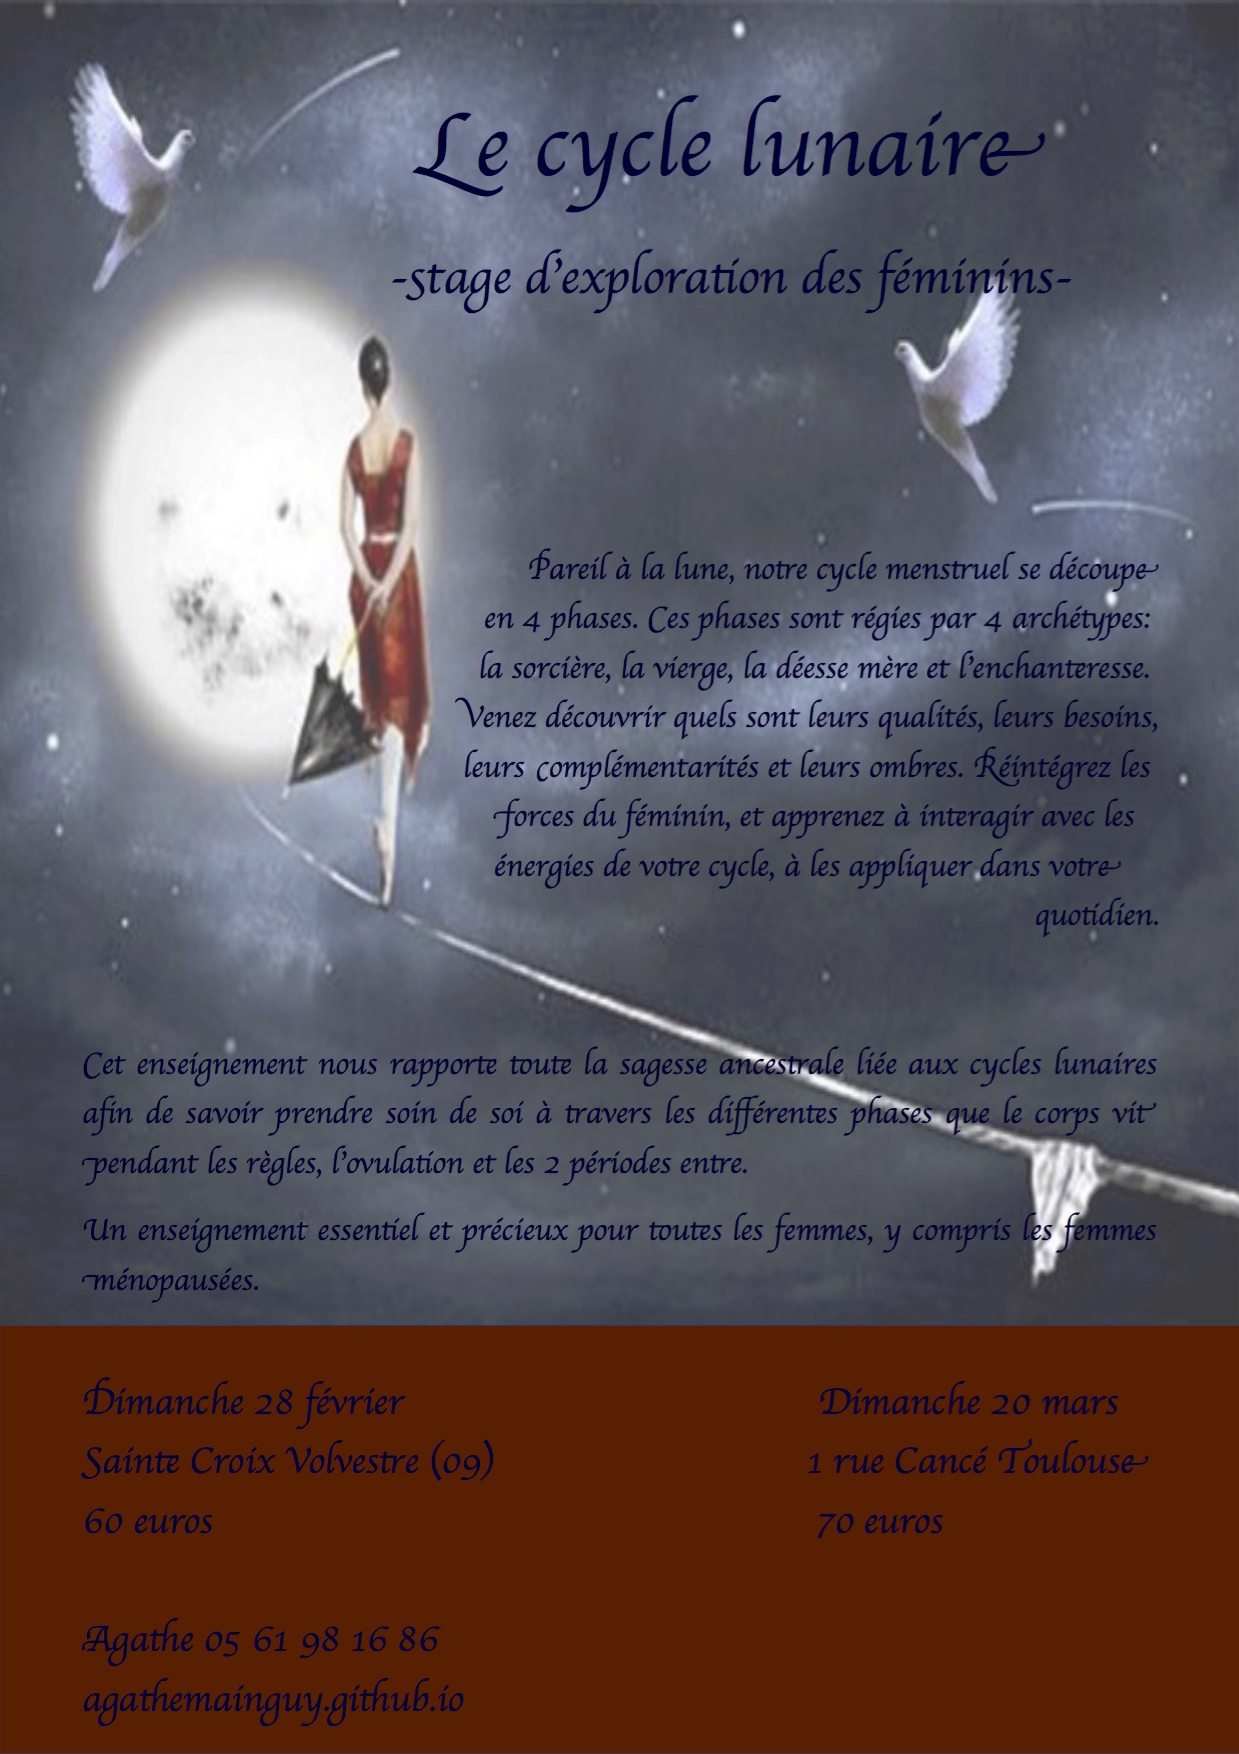
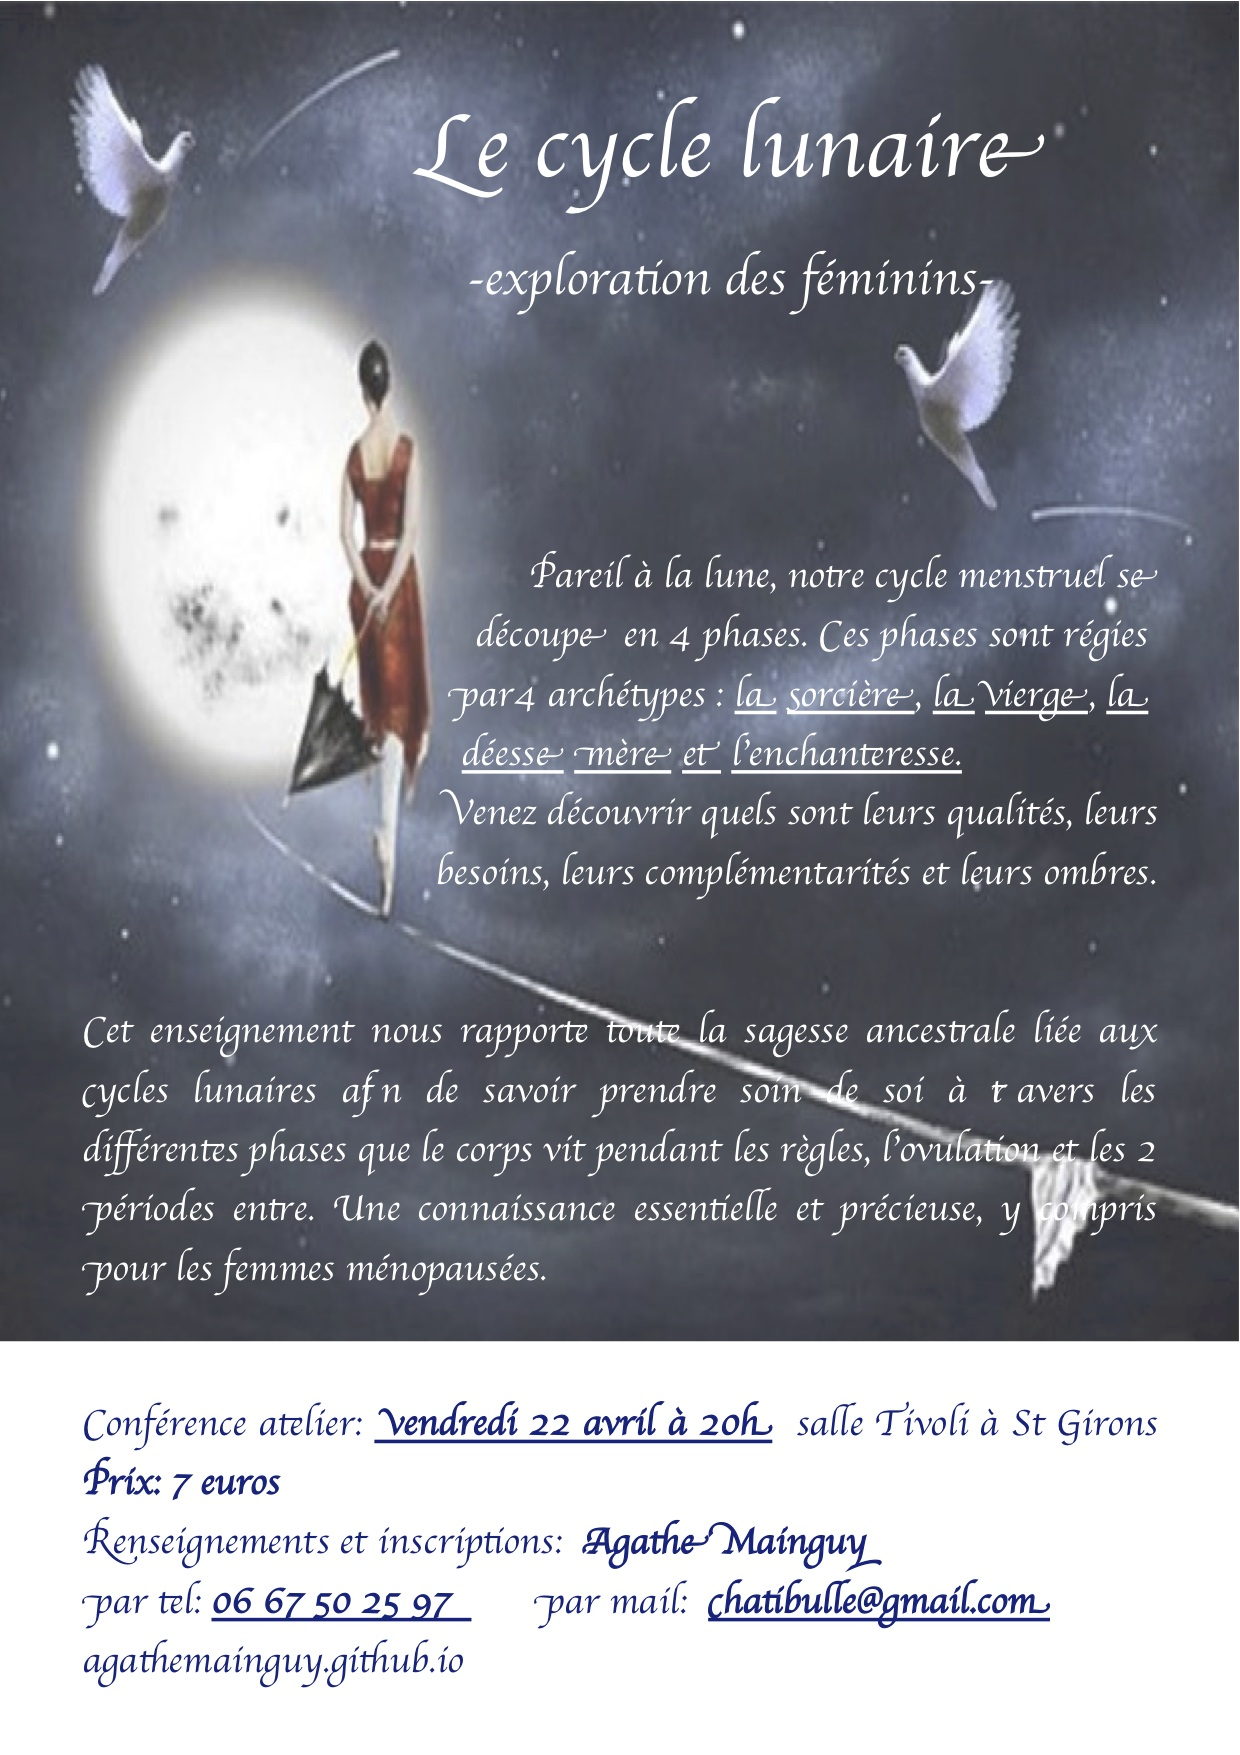
update
update images atelier senti et cycle lunaire
update horaire atelier senti

diff --git a/senti.html b/senti.html
@@ -54,7 +54,11 @@ intuitivement comment se nourrir sur tous les plans (physique, émotionnel, ment
 
 <p>Une bonne motivation et une présence à tous les ateliers sont nécessaires pour la progression de chaque personne et du groupe. <strong>Les ateliers sont ouverts tous,  vivement conseillés à tous les thérapeutes</strong>, afin de développer leur énergie, apprendre à ne plus en perdre, notamment dans la relation aux patients.</p>
 
-<p><strong>Lieu : à Lahitère, le mardi de 9h30 à 11h<br/>
+<center>
+    <img align="middle" src="events/ateliersenti2.jpg" width="440"/>
+  </center>
+
+<p><strong>Lieu : à Lahitère, le lundi de 10h à 11h30<br/>
 Tarif: 12 euros</strong><br/>
 Renseignements et inscriptions: me <a href="mailto:agathemainguy31@gmail.com">contacter</a>.</p>
 
